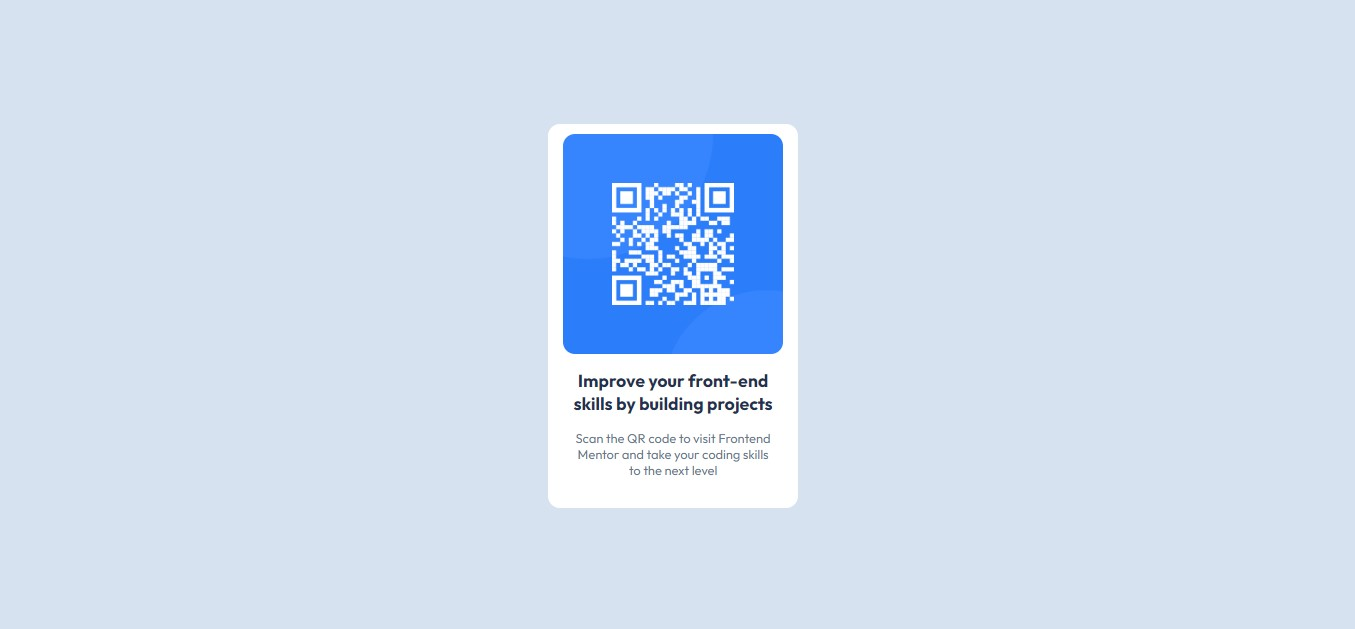
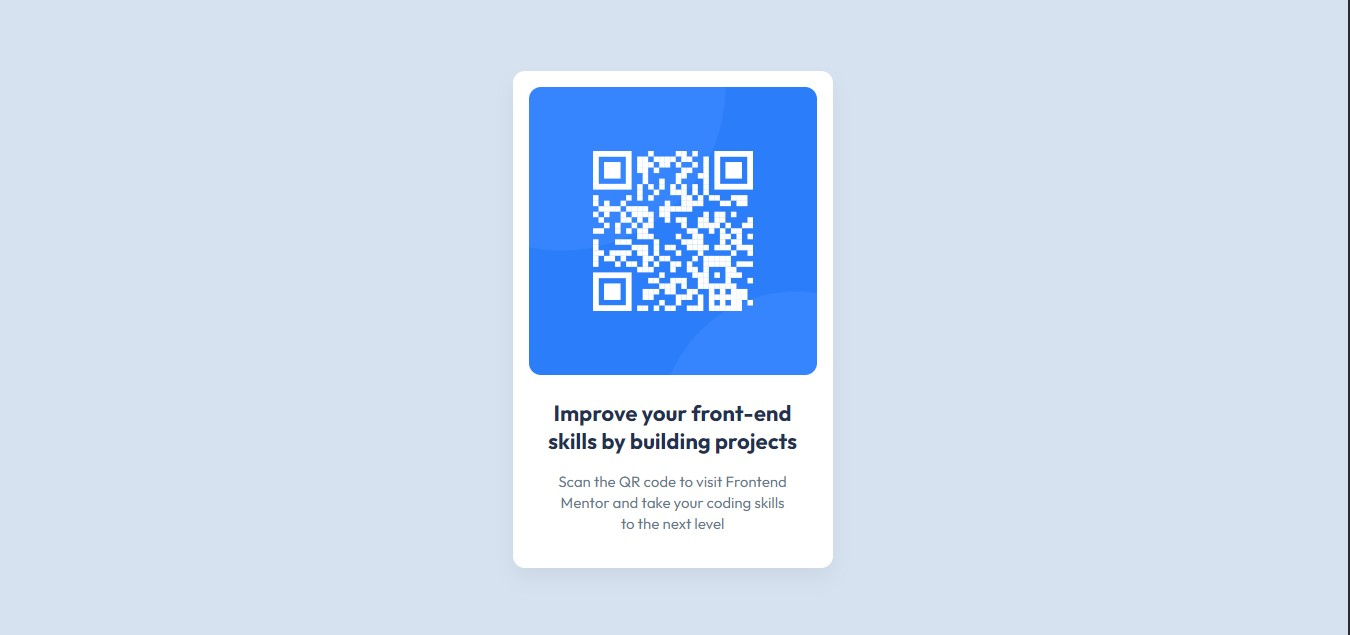
Adjusted element dimensions and fixed layout spacing issues

Changed region(s): [[0.3733, 0.0906, 0.6222, 0.9062], [0.9956, 0.0, 1.0, 1.0]]

diff --git a/style.css b/style.css
@@ -8,48 +8,53 @@
 body{
   font-family: "Outfit", sans-serif;
   background-color: var(--slate-300);
-  font-size: 15px;
+  font-size: 0.9375rem;
   height: 100vh;
   display: flex;
   flex-direction: column;
   align-items: center;
-  overflow: hidden;
+
 }
 
 .main {
   background-color: var(--white);
-  width: 230px;
-  padding: 10px;
+  width: 20rem;
+  height: 31.0625rem;
   display: flex;
   flex-direction: column;
   align-items: center;
   margin: auto;
-  border-radius: 12px;
+  border-radius: 0.75rem;
   text-align: center;
+  box-shadow: 0 0.625rem 1.25rem rgba(0,0,0,0.05);
+  box-sizing: border-box;
+  padding: 1rem;
 }
 
 img {
-  width: 220px;
-  border-radius: 12px;
-
+  border-radius: 0.75rem;
+  width: 18rem;
+  height: 18rem;
 }
 
 .title {
-  font-size: 1.1rem;
+  font-size: 1.375rem;
   font-weight: 700;
-  margin: 15px;
+  margin: 24px 0.9375rem 16px 0.9375rem;
   color: var(--slate-900);
 }
 
 .description {
   font-weight: 400;
   color: var(--slate-500);
-  margin: 0 15px 20px 15px;
-  font-size: 0.8rem;
+  margin: 0 0.9375rem;
+  font-size: 0.9375rem;
+  line-height: 1.4;
+  padding: 0 0.625rem;
 }
 
 .attribution {
-  font-size: 11px; 
+  font-size: 0.6875rem; 
   text-align: center; 
 }
 

diff --git a/index.html b/index.html
@@ -13,7 +13,7 @@
 </head>
 <body>
   <main class="main">
-    <img src="/images/image-qr-code.png" alt="QR code">
+    <img src="images/image-qr-code.png" alt="QR code">
     <p class="title">Improve your front-end skills by building projects</p>
     <p class="description">Scan the QR code to visit Frontend Mentor and take your coding skills to the next level</p>
   </main>
